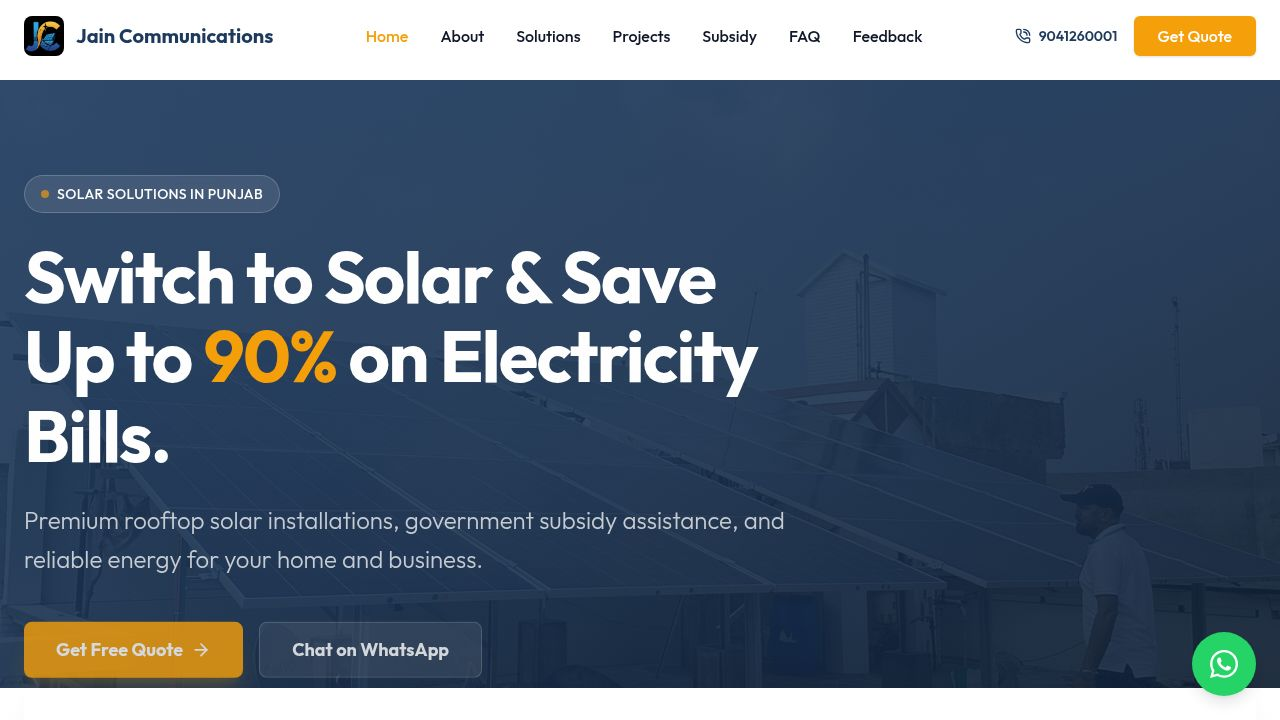
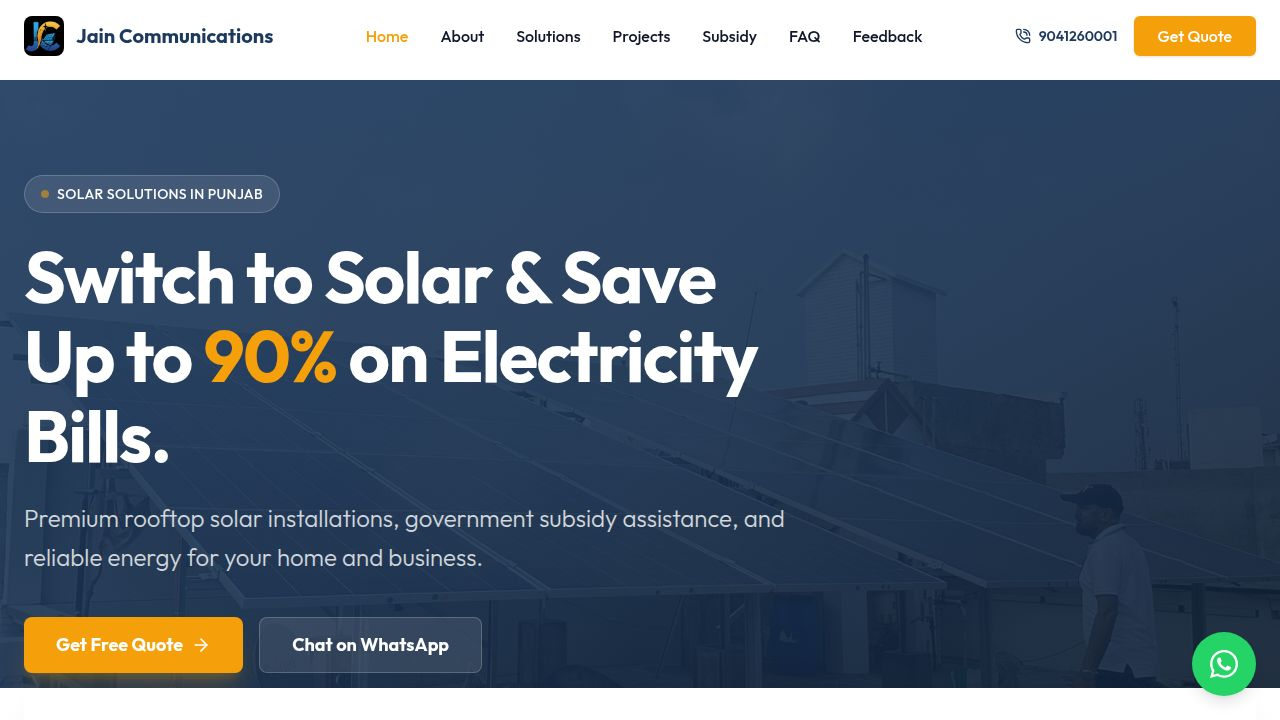
Add email notifications for new contact and feedback submissions
Integrate nodemailer to send email notifications to [email redacted] upon new contact form submissions and feedback entries.

Replit-Commit-Author: Agent
Replit-Commit-Session-Id: 60baee5e-1f1f-4380-b5b2-8cd2615bd8b8
Replit-Commit-Checkpoint-Type: full_checkpoint
Replit-Commit-Event-Id: cd54067a-f0cb-45cd-8ae6-affdc15aacbf
Replit-Commit-Screenshot-Url: https://storage.googleapis.com/screenshot-production-us-central1/ed625ef4-1e2d-450d-983e-07f1851a9d8e/60baee5e-1f1f-4380-b5b2-8cd2615bd8b8/fLYA9Gd
Replit-Helium-Checkpoint-Created: true

diff --git a/artifacts/api-server/src/routes/contact.ts b/artifacts/api-server/src/routes/contact.ts
@@ -1,6 +1,7 @@
 import { Router } from "express";
 import { db, contactsTable } from "@workspace/db";
 import { SubmitContactBody, SubmitContactResponse } from "@workspace/api-zod";
+import { sendContactNotification } from "../lib/mailer";
 
 const router = Router();
 
@@ -30,6 +31,9 @@ router.post("/contact", async (req, res) => {
 
   const validated = SubmitContactResponse.parse(response);
   res.status(201).json(validated);
+
+  // Send email notification (non-blocking — don't await so response is instant)
+  sendContactNotification({ name, phone, email, address, message, type, monthlyBill }).catch(() => {});
 });
 
 export default router;

diff --git a/artifacts/api-server/src/routes/feedback.ts b/artifacts/api-server/src/routes/feedback.ts
@@ -2,6 +2,7 @@ import { Router } from "express";
 import { db, feedbackTable } from "@workspace/db";
 import { SubmitFeedbackBody } from "@workspace/api-zod";
 import { desc } from "drizzle-orm";
+import { sendFeedbackNotification } from "../lib/mailer";
 
 const router = Router();
 
@@ -45,6 +46,9 @@ router.post("/feedback", async (req, res) => {
     message: inserted.message,
     createdAt: inserted.createdAt.toISOString(),
   });
+
+  // Send email notification (non-blocking — don't await so response is instant)
+  sendFeedbackNotification({ name, location, rating, message }).catch(() => {});
 });
 
 export default router;